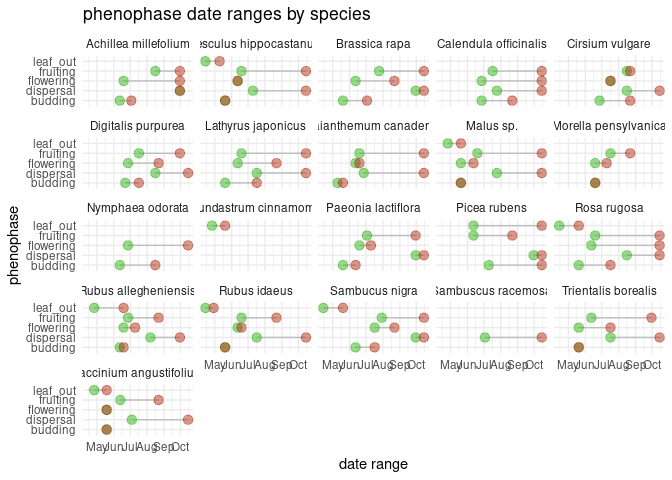
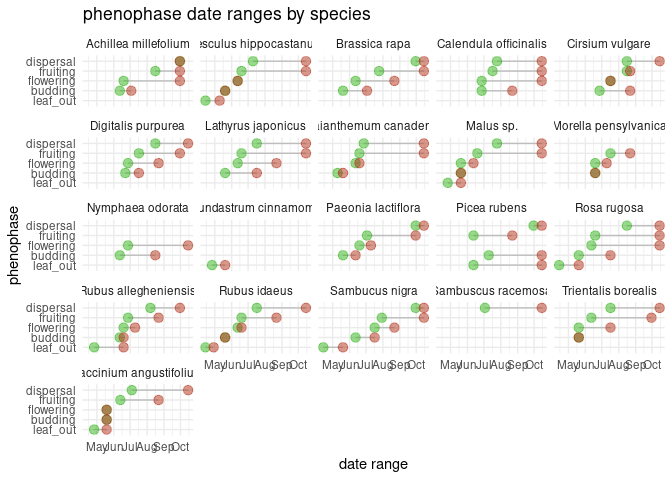
Reorder phenophases in charts

diff --git a/analysis/analysis.md b/analysis/analysis.md
@@ -157,13 +157,15 @@ hurricane_plants_long <- hurricane_plants %>%
 ``` r
 # plot
 #f <- factor(c("budding", "dispersal", "flowering", "fruiting", "leaf_out"), levels = c("leaf_out", "budding", "flowering", "fruiting", "dispersal"))
-hurricane_plants_long %>%
-  #fct_relevel(f) %>%
-  #fct_relevel(phenophase, c("leaf_out", "budding", "flowering", "fruiting", "dispersal")) %>%
+
+as.data.frame(hurricane_plants_long) %>%
+  #fct_relevel(f) 
+  # mutate(phenophase = as.character(phenophase)) %>%
+  # fct_relevel(phenophase, c("leaf_out", "budding", "flowering", "fruiting", "dispersal")) %>%
 ggplot() +
-  geom_segment( aes(x=phenophase, xend=phenophase, y=start_date, yend=end_date), color="grey") +
-  geom_point(aes(x=phenophase, y=start_date), color=rgb(0.2,0.7,0.1,0.5), size=3 ) +
-  geom_point(aes(x=phenophase, y=end_date), color=rgb(0.7,0.2,0.1,0.5), size=3 ) +
+  geom_segment( aes(x=(fct_relevel(phenophase, c("leaf_out", "budding", "flowering", "fruiting", "dispersal"))), xend=(fct_relevel(phenophase, c("leaf_out", "budding", "flowering", "fruiting", "dispersal"))), y=start_date, yend=end_date), color="grey") +
+  geom_point(aes(x=(fct_relevel(phenophase, c("leaf_out", "budding", "flowering", "fruiting", "dispersal"))), y=start_date), color=rgb(0.2,0.7,0.1,0.5), size=3 ) +
+  geom_point(aes(x=(fct_relevel(phenophase, c("leaf_out", "budding", "flowering", "fruiting", "dispersal"))), y=end_date), color=rgb(0.7,0.2,0.1,0.5), size=3 ) +
   coord_flip()+
   facet_wrap(~ species) +
   theme_minimal() +
